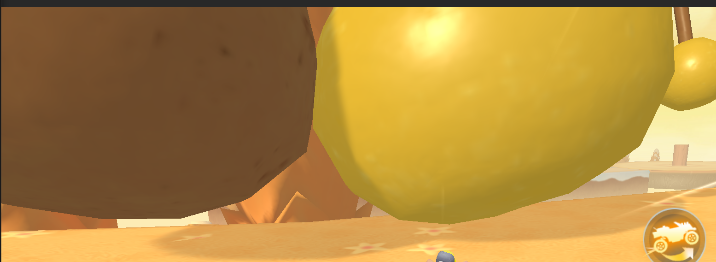
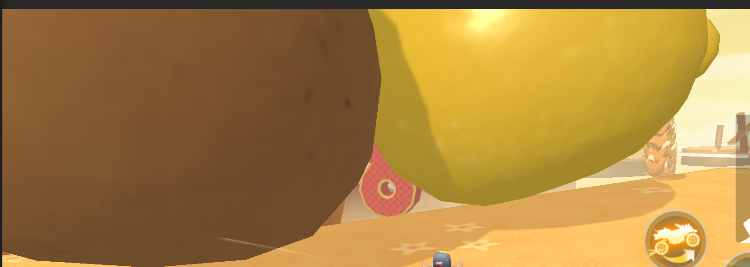
GitBook: [master] one page and 10 assets modified

diff --git a/qqspeed/qqspeed-kai-fa/kai-fa-ri-ji/shi-shi-yin-ying/tang-dou-che-shi-shi-yin-ying-fang-an-ping-gu.md b/qqspeed/qqspeed-kai-fa/kai-fa-ri-ji/shi-shi-yin-ying/tang-dou-che-shi-shi-yin-ying-fang-an-ping-gu.md
@@ -147,17 +147,25 @@ andreo 506 : 中配 43帧到40帧
 
 150 \* 1024
 
-![hard](../../../../.gitbook/assets/image%20%28114%29.png)
+![hard](../../../../.gitbook/assets/image%20%28115%29.png)
 
-![built-in pcf](../../../../.gitbook/assets/image%20%28112%29.png)
+![built-in pcf](../../../../.gitbook/assets/image%20%28113%29.png)
 
-![3 \*3 PCF\(4 taps\)](../../../../.gitbook/assets/image%20%28115%29.png)
+![3 \*3 PCF\(4 taps\)](../../../../.gitbook/assets/image%20%28116%29.png)
 
-![screen space shadow map](../../../../.gitbook/assets/image%20%28117%29.png)
+![screen space shadow map](../../../../.gitbook/assets/image%20%28118%29.png)
 
 Unity默认方案对比 200 \* 2048
 
-![screen space shadow map batches 150](../../../../.gitbook/assets/image%20%28109%29.png)
+![&#x5173;&#x95ED;&#x9634;&#x5F71; 96](../../../../.gitbook/assets/image%20%28109%29.png)
 
-![native shadow ma batches 100](../../../../.gitbook/assets/image%20%28113%29.png)
+![screen space shadow map batches 150](../../../../.gitbook/assets/image%20%28110%29.png)
+
+![native shadow ma batches 100](../../../../.gitbook/assets/image%20%28114%29.png)
+
+逻辑地图配置动态物件是否产生阴影
+
+场景地图配置动态物件的阴影
+
+由大圣那边统计动态阴影DC数量。
 
